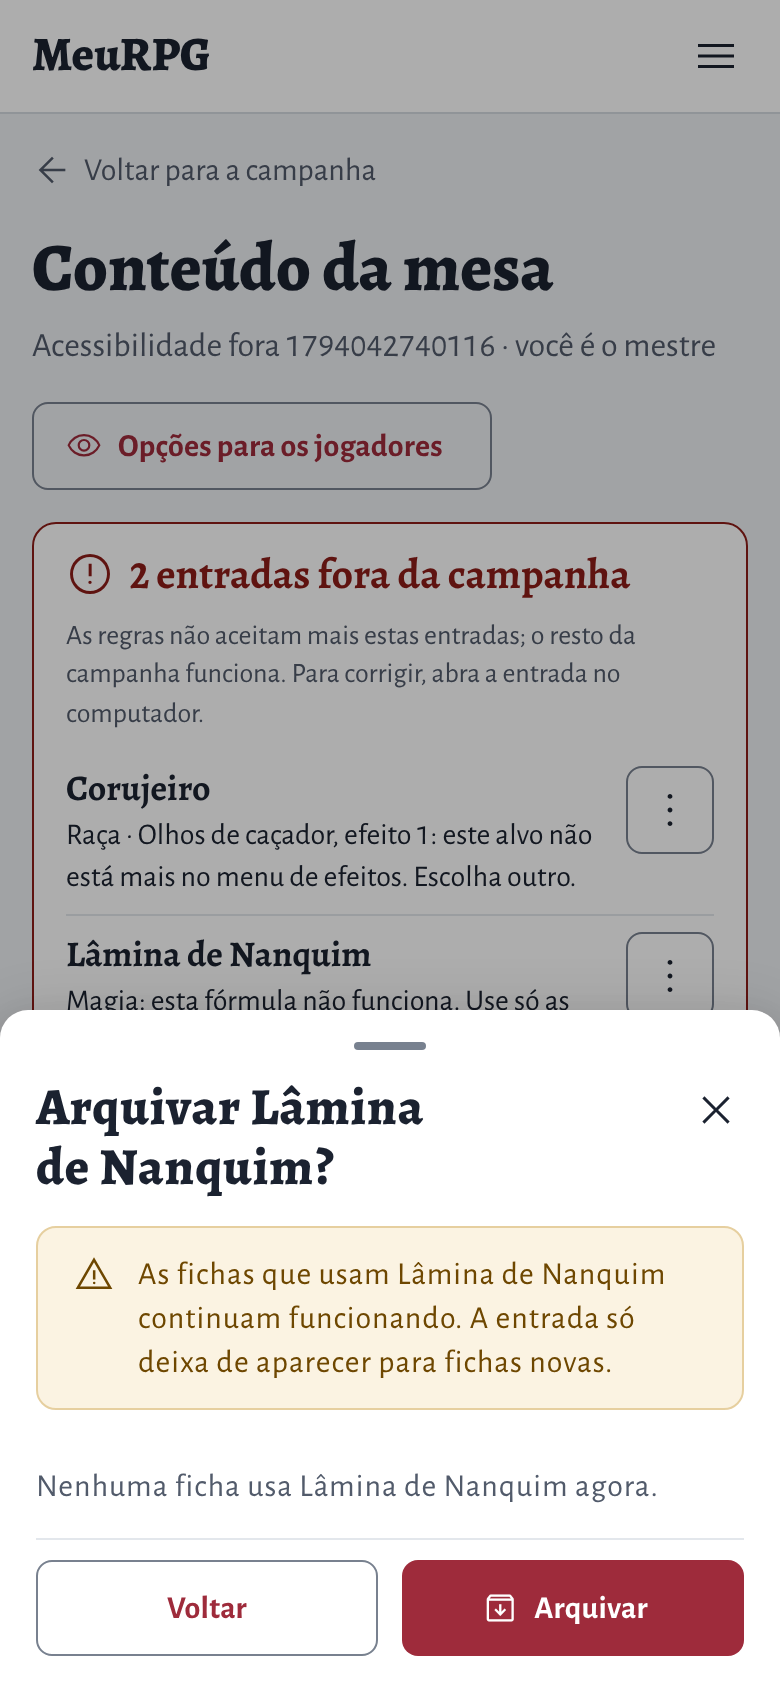
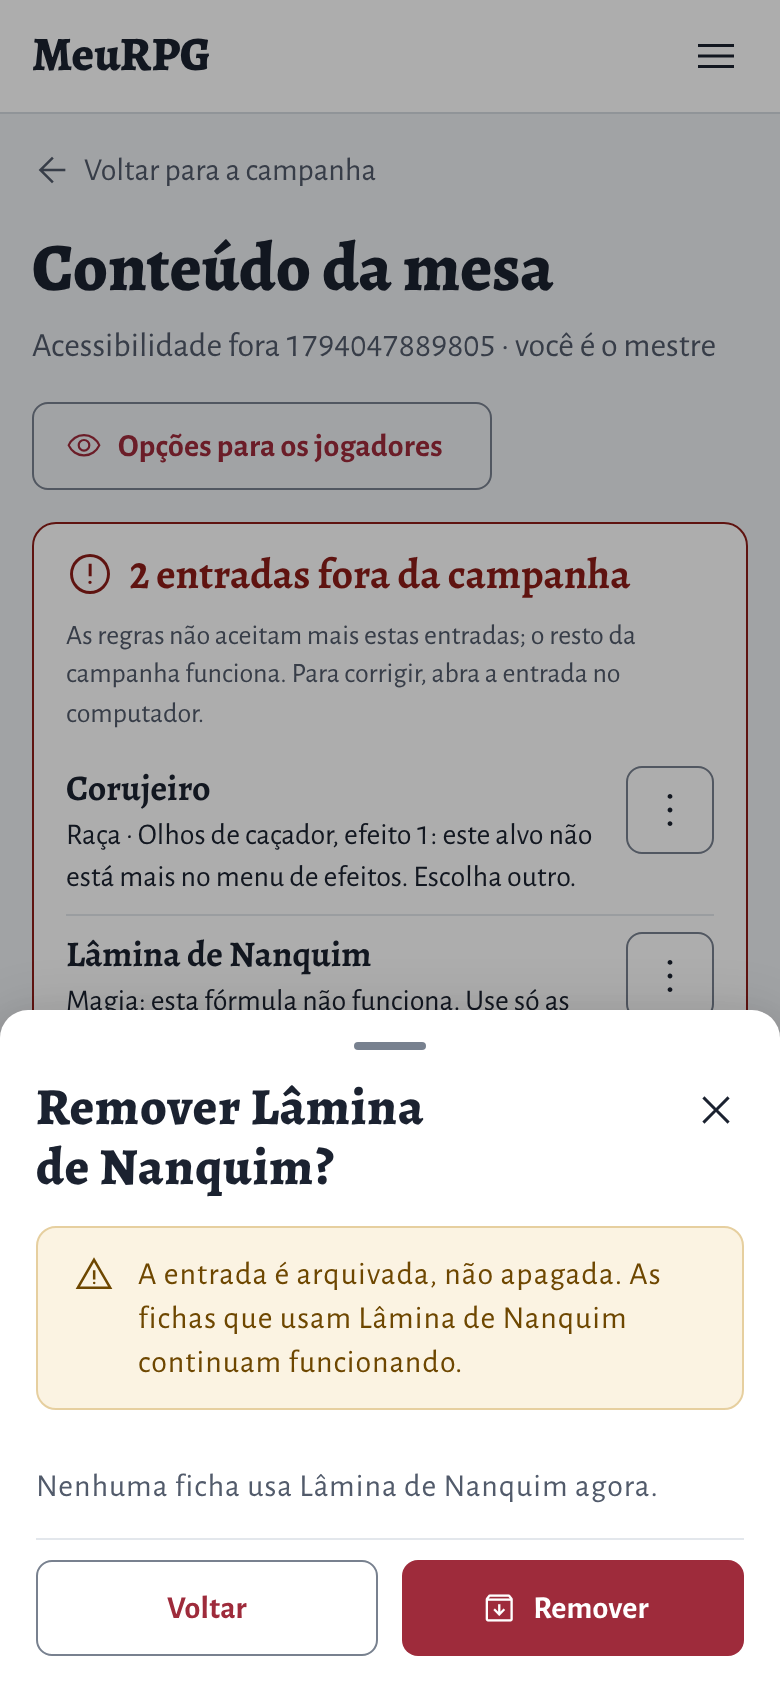
736-left-out: the Remover question says Remover

diff --git a/736-left-out/README.md b/736-left-out/README.md
@@ -4,7 +4,7 @@ Screens of the entries the rules refuse (issue 736), at 390, 768 and 1280 px, li
 
 - `lista`: the master's content list with the "entradas fora da campanha" panel (K1, K3).
 - `menu`: the "⋮" menu of a row, with "Remover".
-- `remover`: the question to archive the entry.
+- `remover`: the question "Remover X?" (the entry is archived, not deleted).
 - `editor-nota`: the entry page with the note and the tag "Fora da campanha".
 - `editor`: the field the rules refuse, marked, with "Um alvo que saiu do menu" (the phone has no field: it reads and removes).
 - `campanha`: the master's notice on the campaign's "Regras" tab.
